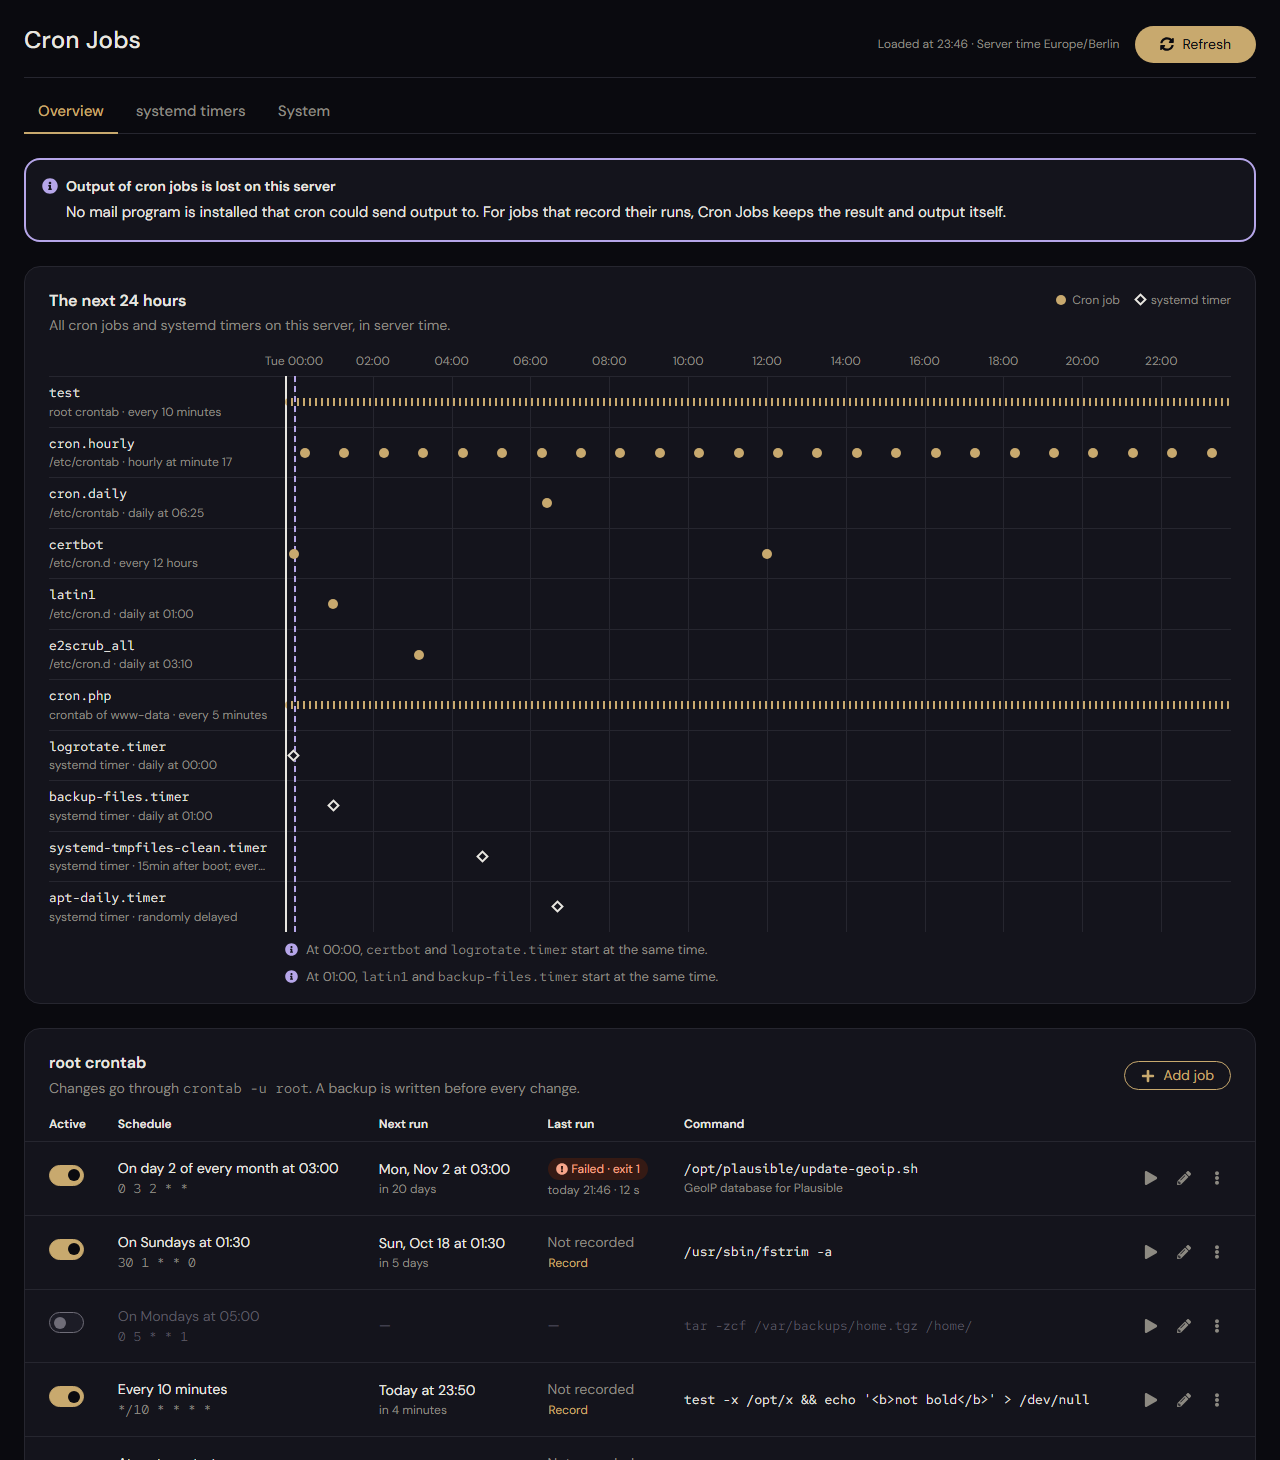
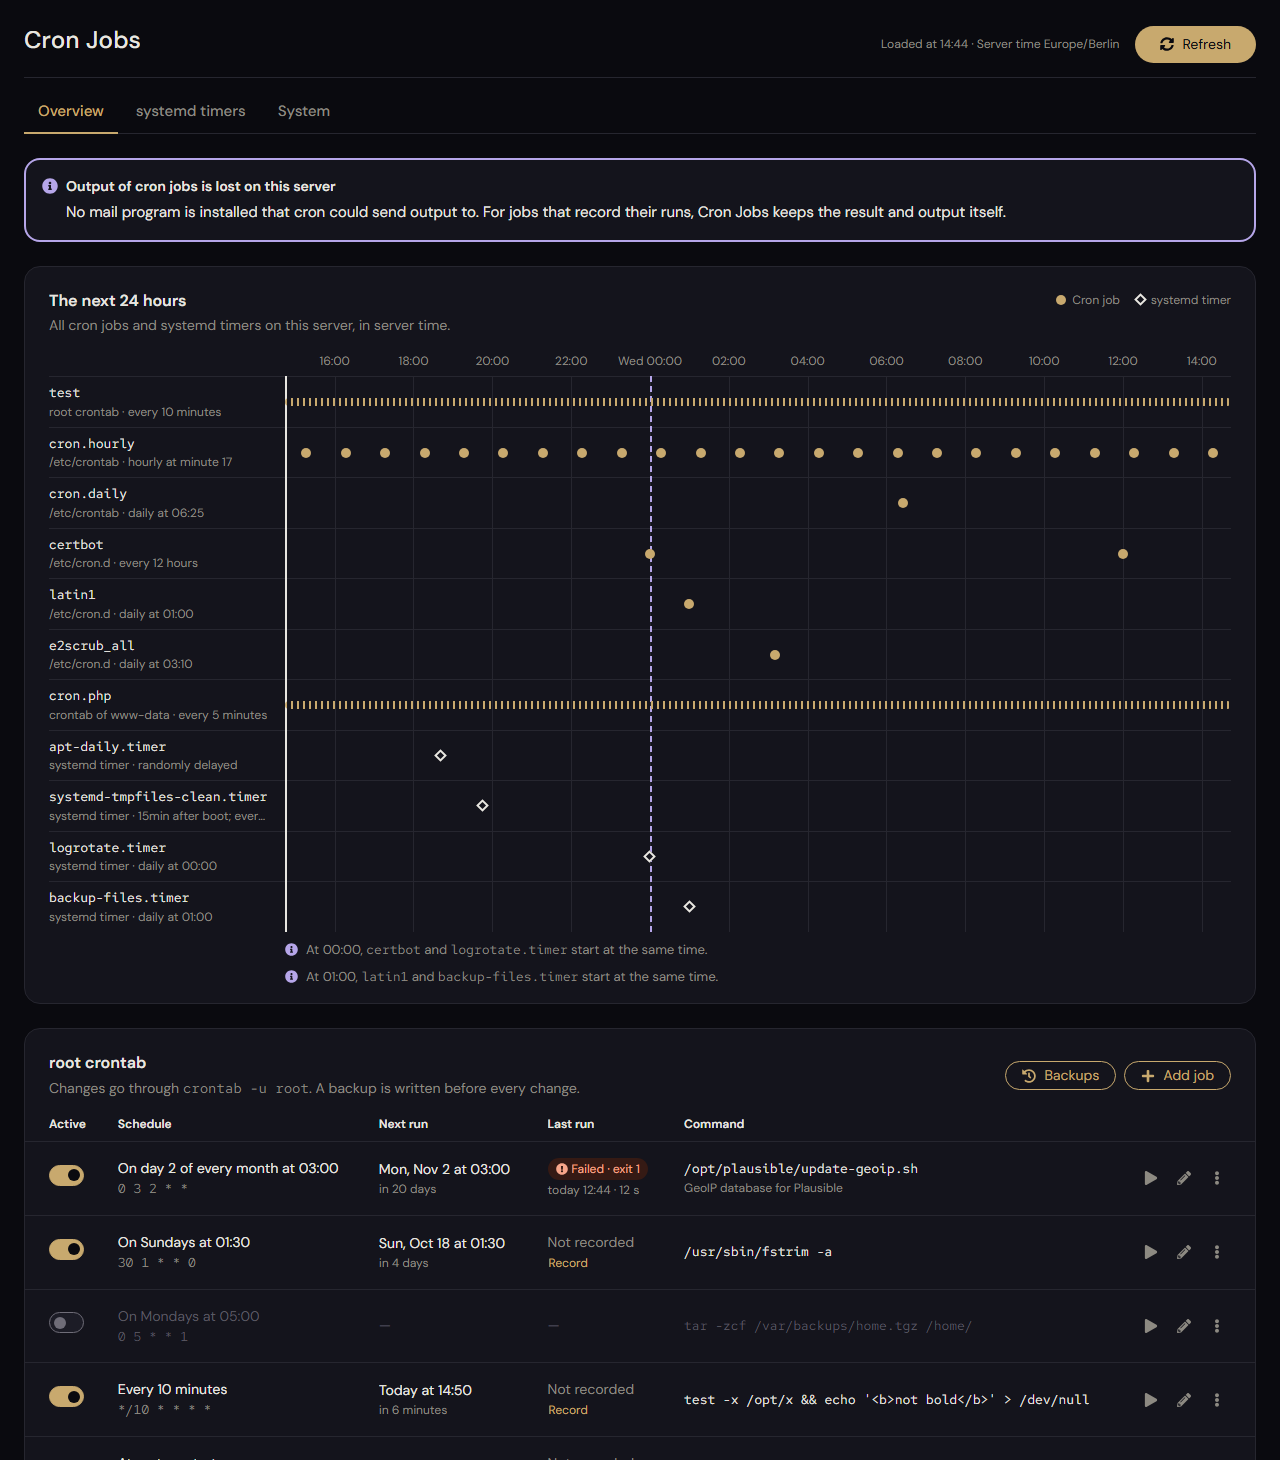
Release 2.3.0
Version 2.3.0 with its changelog section; stage 2 marked as done in the roadmap; README install example for 2.3.0 and a picture of the backups dialog (taken by the browser tests); overview pictures show the new Backups button.

Changed region(s): [[0.0312, 0.4932, 0.2188, 0.6473], [0.8125, 0.7089, 0.8438, 0.7397], [0.3438, 0.9247, 0.375, 0.9555]]

diff --git a/src/app.js b/src/app.js
@@ -38,7 +38,7 @@ import { submitBack, submitConvert, toggleUnits, updateConvert } from "./app/con
 import { openBackups } from "./app/backups.js";
 import { initTabs } from "./app/tabs.js";
 
-const VERSION = "2.2.0";
+const VERSION = "2.3.0";
 
 /* ---------- start ---------- */
 

diff --git a/test/ui_test.py b/test/ui_test.py
@@ -1142,6 +1142,30 @@ with sync_playwright() as p:
     shot(page, "en-light-1280")
     row(page, 0).locator("[data-key^=more]").click()
     check("Stop recording" in page.inner_text("#row-menu"), "en menu")
+    page.keyboard.press("Escape")
+    # the backups dialog in English (also the picture in the README)
+    root = root_text(page)
+    page.evaluate("""o => {
+        const now = Math.floor(Date.now() / 1000);
+        const p = n => '/var/lib/cockpit-cronjobs/backups/root-' + n + '.crontab';
+        window.__mock.backups = [
+            { path: p('20261012-063000'), content: o.older, mtime: now - 86400 },
+            { path: p('20261013-081500'), content: o.mid, mtime: now - 3 * 3600 },
+            { path: p('20261013-104200'), content: o.newer, mtime: now - 120 },
+        ];
+    }""", {"older": root + "15 4 * * * /usr/local/bin/old-report.sh\n",
+           "mid": root.replace("@reboot /usr/local/bin/warmup.sh\n", ""),
+           "newer": root.replace("30 1 * * 0 /usr/sbin/fstrim -a", "45 1 * * 0 /usr/sbin/fstrim -a")})
+    page.click("#backups")
+    wait_js(page, "document.querySelectorAll('#bk-body tbody tr').length === 3")
+    check(page.locator("#bk-body tbody tr td:nth-child(2)").all_inner_texts() ==
+          ["1 line removed, 1 line added", "1 line removed", "1 line added"], "en: what restoring changes")
+    page.click("[data-key='bk:root-20261013-104200.crontab']")
+    wait_js(page, "document.querySelector('.cron-diff')")
+    check("Restore this version" in page.inner_text("#bk-body") and "unchanged lines" in page.inner_text("#bk-body"), "en difference")
+    box = page.locator("#bk-dlg .az-modal").bounding_box()
+    page.screenshot(path=os.path.join(SHOTS, "en-backups.png"),
+                    clip={"x": box["x"] - 24, "y": box["y"] - 24, "width": box["width"] + 48, "height": box["height"] + 48})
     page.context.close()
 
     # ---------- language like Cockpit ----------

diff --git a/README.md b/README.md
@@ -35,9 +35,9 @@ and turns cron jobs into systemd timers.
 - English and German, following Cockpit's language. Light and dark, following Cockpit's style. Usable on
   a phone.
 
-| Run now | Recorded runs | Convert to systemd timer |
-|---|---|---|
-| ![Run now](docs/run-now.png) | ![Runs](docs/runs.png) | ![Convert](docs/convert.png) |
+| Run now | Recorded runs | Convert to systemd timer | Backups |
+|---|---|---|---|
+| ![Run now](docs/run-now.png) | ![Runs](docs/runs.png) | ![Convert](docs/convert.png) | ![Backups](docs/backups.png) |
 
 ## Requirements
 
@@ -56,11 +56,11 @@ the system crontabs and timers.
 From a [release](https://github.com/Azentrius/cockpit-cronjobs/releases) (replace the version):
 
 ```sh
-curl -LO https://github.com/Azentrius/cockpit-cronjobs/releases/download/v2.2.0/cockpit-cronjobs-2.2.0.tar.gz
-curl -LO https://github.com/Azentrius/cockpit-cronjobs/releases/download/v2.2.0/SHA256SUMS
+curl -LO https://github.com/Azentrius/cockpit-cronjobs/releases/download/v2.3.0/cockpit-cronjobs-2.3.0.tar.gz
+curl -LO https://github.com/Azentrius/cockpit-cronjobs/releases/download/v2.3.0/SHA256SUMS
 sha256sum --ignore-missing -c SHA256SUMS
-gh attestation verify cockpit-cronjobs-2.2.0.tar.gz --repo Azentrius/cockpit-cronjobs   # optional, needs gh
-sudo tar -xzf cockpit-cronjobs-2.2.0.tar.gz -C /usr/share/cockpit
+gh attestation verify cockpit-cronjobs-2.3.0.tar.gz --repo Azentrius/cockpit-cronjobs   # optional, needs gh
+sudo tar -xzf cockpit-cronjobs-2.3.0.tar.gz -C /usr/share/cockpit
 ```
 
 Or from the source:

diff --git a/CHANGELOG.md b/CHANGELOG.md
@@ -1,5 +1,19 @@
 # Changelog
 
+## 2.3.0 – 2026-10-13
+
+Backups you can use: compare any of the last ten versions of the root crontab with the current one, and
+restore it.
+
+- **Backups:** a new button in the root crontab card lists the backups, newest first, each with what
+  restoring it would change. Opening one shows the difference line by line, as `diff` shows it. Restoring
+  writes the backup byte for byte through the same locked step as every other change, after a backup of
+  the current version, so a restore can be undone the same way.
+- Shared design files: `icons.js` has the `ban` icon (for the other add-ons); `azentrius-theme.js`
+  changed only in a comment.
+- Tests: two tests that failed now and then without a change in the code wait for what they check; the
+  end-to-end test is a required check.
+
 ## 2.2.0 – 2026-10-12
 
 The shared Azentrius page frame, the polish of stage 1.1 of the roadmap, and a new license.

diff --git a/ROADMAP.md b/ROADMAP.md
@@ -1,6 +1,6 @@
 # Roadmap
 
-As of 2026-10-12. Each stage is cut so that it is useful on its own and brings its own tests. The
+As of 2026-10-13. Each stage is cut so that it is useful on its own and brings its own tests. The
 order is the recommendation; stages after 1.1 are proposals until they are decided.
 
 **Guardrails for every stage** (they keep applying):
@@ -44,7 +44,10 @@ Done in 2.2.0 (see [CHANGELOG](CHANGELOG.md)), together with the shared Azentriu
 
 ---
 
-## Stage 2 – Backups you can use
+## Stage 2 – Backups you can use ✅
+
+Done in 2.3.0 (see [CHANGELOG](CHANGELOG.md)): the list shows when each backup was saved and what restoring
+it would change; the end-to-end test compares the difference with `diff` and restores and restores back.
 
 **Goal:** the last ten versions of the root crontab are not only kept, but useful.
 
